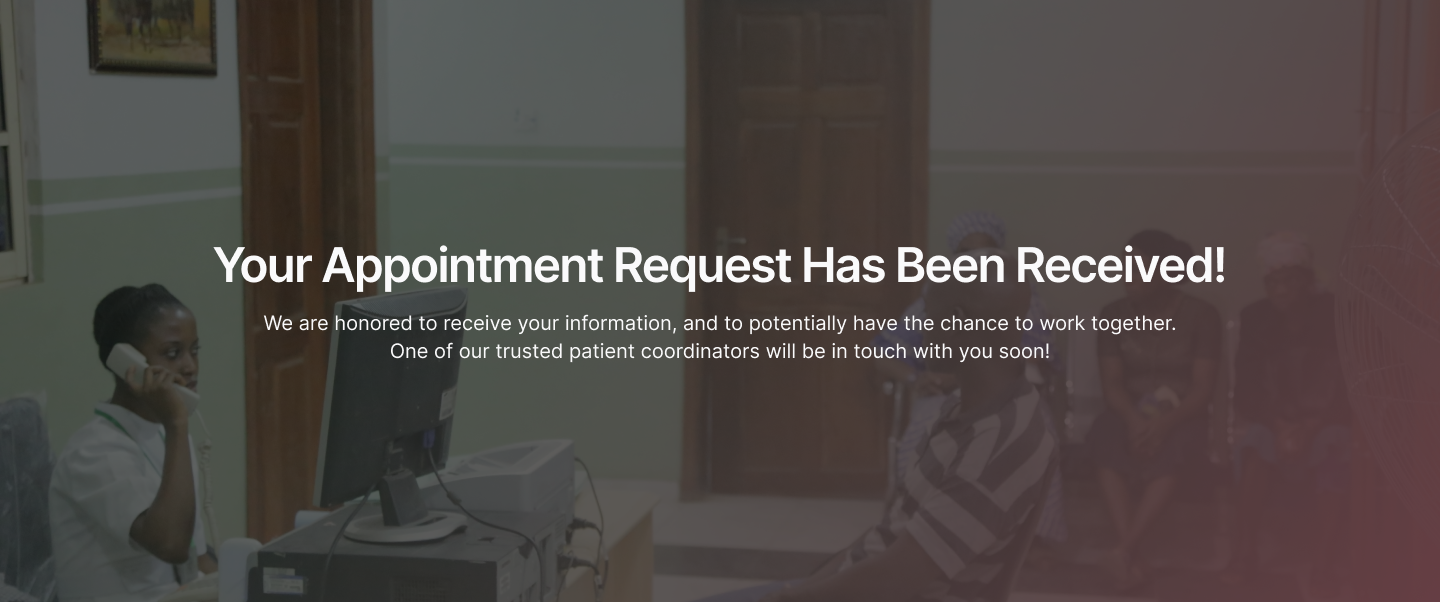
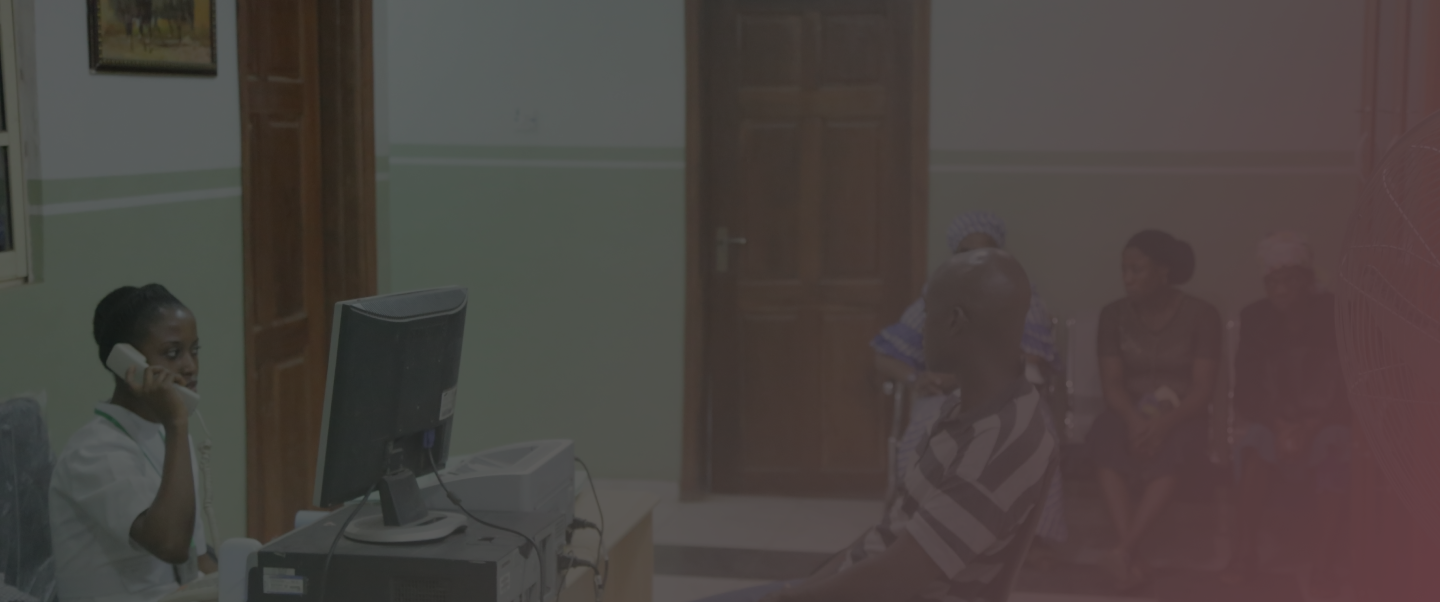
fix

Changed region(s): [[0.1875, 0.5083, 0.8125, 0.598], [0.1562, 0.3887, 0.875, 0.4784]]

diff --git a/src/components/common/Header/navigationMenu.tsx b/src/components/common/Header/navigationMenu.tsx
@@ -1,3 +1,52 @@
+// import React, { useState } from "react";
+// import { Link } from "gatsby";
+// import { navLinks } from "../../constants";
+// import DropDownItem from "./DropDownItem";
+
+// const NavigationMenu = () => {
+//   const [activeIndex, setActiveIndex] = useState<number | null>(null);
+
+//   // Handle clicking on a menu item to set the active state
+//   const handleClick = (index: number) => {
+//     setActiveIndex(index);
+//   };
+
+//   return (
+//     <div className="relative">
+//       <ul className="group flex flex-row lg:gap-[48px] text-[#666F89]">
+//         {navLinks.map((item, i) => (
+//           <li
+//             key={i}
+//             className="relative group"
+//             onClick={() => handleClick(i)}
+//           >
+//             <Link
+//               to={item.to || "#"}
+//               className={`text-[16px] p-2 ${
+//                 item.subLinks ? "" : ""
+//               } p-2 ${
+//                 activeIndex === i && !item.subLinks
+//                   ? "text-[#017B64] border-b-4 border-[#017B64]"
+//                   : "text-black"
+//               }
+//               hover:text-[#017B64] transition duration-200`}
+//             >
+//               {item.title}
+//             </Link>
+
+//             {item.subLinks && activeIndex === i && (
+//               <div className="absolute top-10 left-0 mt-2 w-[400px] bg-white shadow-lg rounded-lg z-10">
+//                 <DropDownItem subLinks={item.subLinks} />
+//               </div>
+//             )}
+//           </li>
+//         ))}
+//       </ul>
+//     </div>
+//   );
+// };
+
+// export default NavigationMenu;
 import React, { useState } from "react";
 import { Link } from "gatsby";
 import { navLinks } from "../../constants";
@@ -6,7 +55,6 @@ import DropDownItem from "./DropDownItem";
 const NavigationMenu = () => {
   const [activeIndex, setActiveIndex] = useState<number | null>(null);
 
-  // Handle clicking on a menu item to set the active state
   const handleClick = (index: number) => {
     setActiveIndex(index);
   };
@@ -22,14 +70,11 @@ const NavigationMenu = () => {
           >
             <Link
               to={item.to || "#"}
-              className={`text-[16px] p-2 ${
-                item.subLinks ? "" : ""
-              } p-2 ${
-                activeIndex === i && !item.subLinks
+              className={`text-[16px] p-2 hover:text-[#017B64] transition duration-200 ${
+                activeIndex === i
                   ? "text-[#017B64] border-b-4 border-[#017B64]"
                   : "text-black"
-              }
-              hover:text-[#017B64] transition duration-200`}
+              }`}
             >
               {item.title}
             </Link>

diff --git a/src/components/Appointment/appointmentHero.tsx b/src/components/Appointment/appointmentHero.tsx
@@ -6,11 +6,21 @@ const AppointmentHero2 = () => {
     <>
     {/* desktop */}
     <div className='relative hidden lg:block md:block'>
-          <StaticImage
-          src="../../images/appointmentcard.png"
-          alt="LinkedIn"
-          className="w-full lg:h-[500px] h-[700px] mt-[3em] lg:mt-[2em]"
-        />
+          <div className="min-w-full h-full relative font-sans ">
+            <StaticImage
+            src="../../images/appointmentcard.png"
+              alt="Hero Image 1"
+              layout="fullWidth"
+              className="object-cover h-full w-full"
+            />
+            <div className="absolute inset-0 flex flex-col items-center justify-center ">
+              <h1 className="text-white text-[48px] font-medium text-center">
+              Your Appointment Request Has Been Received!
+              </h1>
+              <p className='text-[20px] text-white'>We are honored to receive your information, and to potentially have the chance to work together. </p>
+              <p className='text-[20px] text-white'>One of our trusted patient coordinators will be in touch with you soon!</p>
+            </div>
+          </div>
     </div>
 
     {/* mobile */}
